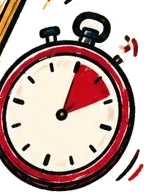
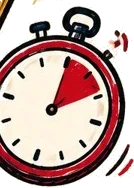
Útil: metrônomo e diapasão (afinador) em traço de giz de cera, cronômetro recortado melhor (v434)
Claude-Session: https://claude.ai/code/session_017Ekti2XFwLp91SVDNZvL8Z

diff --git a/js/views/tocar-art.js b/js/views/tocar-art.js
@@ -84,3 +84,26 @@ export const PADS_FOTO = [
   ['cg', 'congas', 'percussao/07_congas', ['cg1', 'cg2']], ['bg', 'bongôs', 'percussao/08_bongos', ['bg2', 'bg1']], ['cx', 'caixa', 'bateria/02_caixa'],
 ];
 export const PAD_ANIM = { pd: 'pd', tb: 'bg', ag: 'ag', rr: 'cl', tr: 'tr', gz: 'ov', cg: 'cg1', bg: 'bg', cx: 'cb' };
+
+/** Desenhos "de giz de cera" (traço tremido, hachura) no estilo dos cartões do Paul: metrônomo e diapasão (afinador). */
+const RGH = `<defs><filter id="rgh" x="-5%" y="-5%" width="110%" height="110%"><feTurbulence type="fractalNoise" baseFrequency="0.035" numOctaves="2" seed="4" result="n"/><feDisplacementMap in="SourceGraphic" in2="n" scale="3.2"/></filter></defs>`;
+export const UTIL_DOODLE = {
+  metronomo: S(`${RGH}<g filter="url(#rgh)">
+    <path d="M24 90 L36 15 Q50 8 64 15 L76 90 Z" fill="${RE}" stroke="${K}" stroke-width="3.6" stroke-linejoin="round"/>
+    <g stroke="${VI}" stroke-width="2.2" stroke-linecap="round"><path d="M30 80 L70 70M29 68 L69 58M31 56 L66 47M33 44 L63 36M36 33 L60 27"/></g>
+    <path d="M38 88 L45 26 L55 26 L62 88 Z" fill="${CR}" stroke="${K}" stroke-width="3" stroke-linejoin="round"/>
+    <g stroke="${K}" stroke-width="2" stroke-linecap="round"><path d="M46 38h8M45 48h10M44 58h12M43 68h14M42 78h16"/></g>
+    <path d="M50 84 L63 20" stroke="${K}" stroke-width="4.5" stroke-linecap="round"/><path d="M50 84 L63 20" stroke="${OU}" stroke-width="2" stroke-linecap="round"/>
+    <rect x="55" y="36" width="15" height="13" rx="3" fill="${OU}" stroke="${K}" stroke-width="3" transform="rotate(12 62 42)"/>
+    <rect x="18" y="88" width="64" height="8" rx="3" fill="${AM}" stroke="${K}" stroke-width="3"/>
+    <circle cx="50" cy="84" r="4" fill="${OU}" stroke="${K}" stroke-width="2.5"/></g>
+    <g stroke="${OU}" stroke-width="3" stroke-linecap="round"><path d="M82 24 L92 18M84 36 L95 36M80 12 L84 4"/></g><path d="M12 22 l2.4 5 5.4.7-4 3.8.9 5.4-4.7-2.6-4.7 2.6.9-5.4-4-3.8 5.4-.7z" fill="${AM}" stroke="${K}" stroke-width="1.6"/>`),
+  afinador: S(`${RGH}<g filter="url(#rgh)">
+    <path d="M36 12 V50 Q36 64 50 64 Q64 64 64 50 V12" fill="none" stroke="${K}" stroke-width="12" stroke-linecap="round" stroke-linejoin="round"/>
+    <path d="M36 12 V50 Q36 64 50 64 Q64 64 64 50 V12" fill="none" stroke="${AZ}" stroke-width="6" stroke-linecap="round" stroke-linejoin="round"/>
+    <rect x="44" y="62" width="12" height="30" rx="4" fill="${AM}" stroke="${K}" stroke-width="3.2"/>
+    <g stroke="${CR}" stroke-width="1.6" stroke-linecap="round"><path d="M44 72h12M44 78h12M44 84h12"/></g>
+    <g stroke="${VI}" stroke-width="1.8" stroke-linecap="round"><path d="M37 20v22M63 20v22"/></g></g>
+    <g fill="none" stroke-linecap="round" stroke-width="3.6"><path d="M24 22 Q16 34 24 46" stroke="${RE}"/><path d="M15 16 Q4 34 15 52" stroke="${OU}"/><path d="M76 22 Q84 34 76 46" stroke="${RE}"/><path d="M85 16 Q96 34 85 52" stroke="${OU}"/></g>
+    <text x="50" y="9" text-anchor="middle" font-family="system-ui,sans-serif" font-weight="900" font-size="11" fill="${K}">♪</text>`),
+};

diff --git a/js/views/tocar-nav.js b/js/views/tocar-nav.js
@@ -3,13 +3,13 @@ import { h } from '../util.js';
 import { audio } from '../audio.js';
 import * as N from '../notation.js';
 import { backing, STYLES, grooveBeat, wake } from '../instruments.js';
-import { UTIL_ART } from './tocar-art.js';
+import { UTIL_DOODLE } from './tocar-art.js';
 
 export const INSTRUMENTOS = [['toque', 'bateria', '#/toque'], ['violao', 'cordas', '#/violao'], ['piano', 'teclas', '#/piano'], ['xilofone', 'percussão', '#/xilofone']];
 /** Útil (pra todo mundo): metrônomo, afinador e timer. */
 export const UTEIS = [['metronomo', 'metrônomo', '#/metronomo'], ['ouvido', 'afinador', '#/ouvido'], ['foco', 'cronômetro', '#/foco']];
 const FOTO = (n) => `<img src="assets/tocar/${n}.webp" alt="" draggable="false" decoding="async">`;
-const UART = { metronomo: UTIL_ART.metronomo, ouvido: FOTO('onda'), foco: FOTO('cronometro') }; // cronômetro e onda do afinador: figurinhas desenhadas da Beaterista
+const UART = { metronomo: UTIL_DOODLE.metronomo, ouvido: UTIL_DOODLE.afinador, foco: FOTO('cronometro') }; // metrônomo e diapasão: giz de cera; cronômetro: figurinha da Beaterista
 /** Três quadradinhos com desenho: metrônomo, afinador e cronômetro (o nome da seção vai por cima). `big` = versão grande da tela Tocar. */
 export function utilTiles(big = false) {
   return h('nav', { class: `ti-util${big ? ' big' : ''}`, 'aria-label': 'Útil' }, h('span', { class: 'ti-util-l' }, 'útil'),

diff --git a/css/lote3.css b/css/lote3.css
@@ -822,3 +822,5 @@ html.em-jogo #app { padding-bottom: calc(24px + var(--safe-b)); }
 .ti-ut-art img, .ti-ut-art svg { height: 100%; width: auto; max-width: 100%; max-height: none; object-fit: contain; }
 .ti-util-g { grid-template-columns: repeat(3, minmax(0, 1fr)); } .ti-ut { min-width: 0; aspect-ratio: auto; }
 .ti-ut-art { height: 56px; } .ti-util.big .ti-ut-art { height: 74px; }
+.ti-ut-art img, .ti-ut-art svg { width: auto !important; height: 100% !important; max-width: 100% !important; max-height: none !important; }
+.ti-ut-art { height: 62px; } .ti-util.big .ti-ut-art { height: 80px; }

diff --git a/sw.js b/sw.js
@@ -1,5 +1,5 @@
 // Service worker: cacheia só o "casco" do app (código + marca). Nenhum dado do usuário passa por aqui.
-const VERSION = 'beaterista-v433';
+const VERSION = 'beaterista-v434';
 const SHELL = [
   'js/paulta/livre.js', 'js/dicas-aluno.js',
   'js/paulta/mapa.js',
